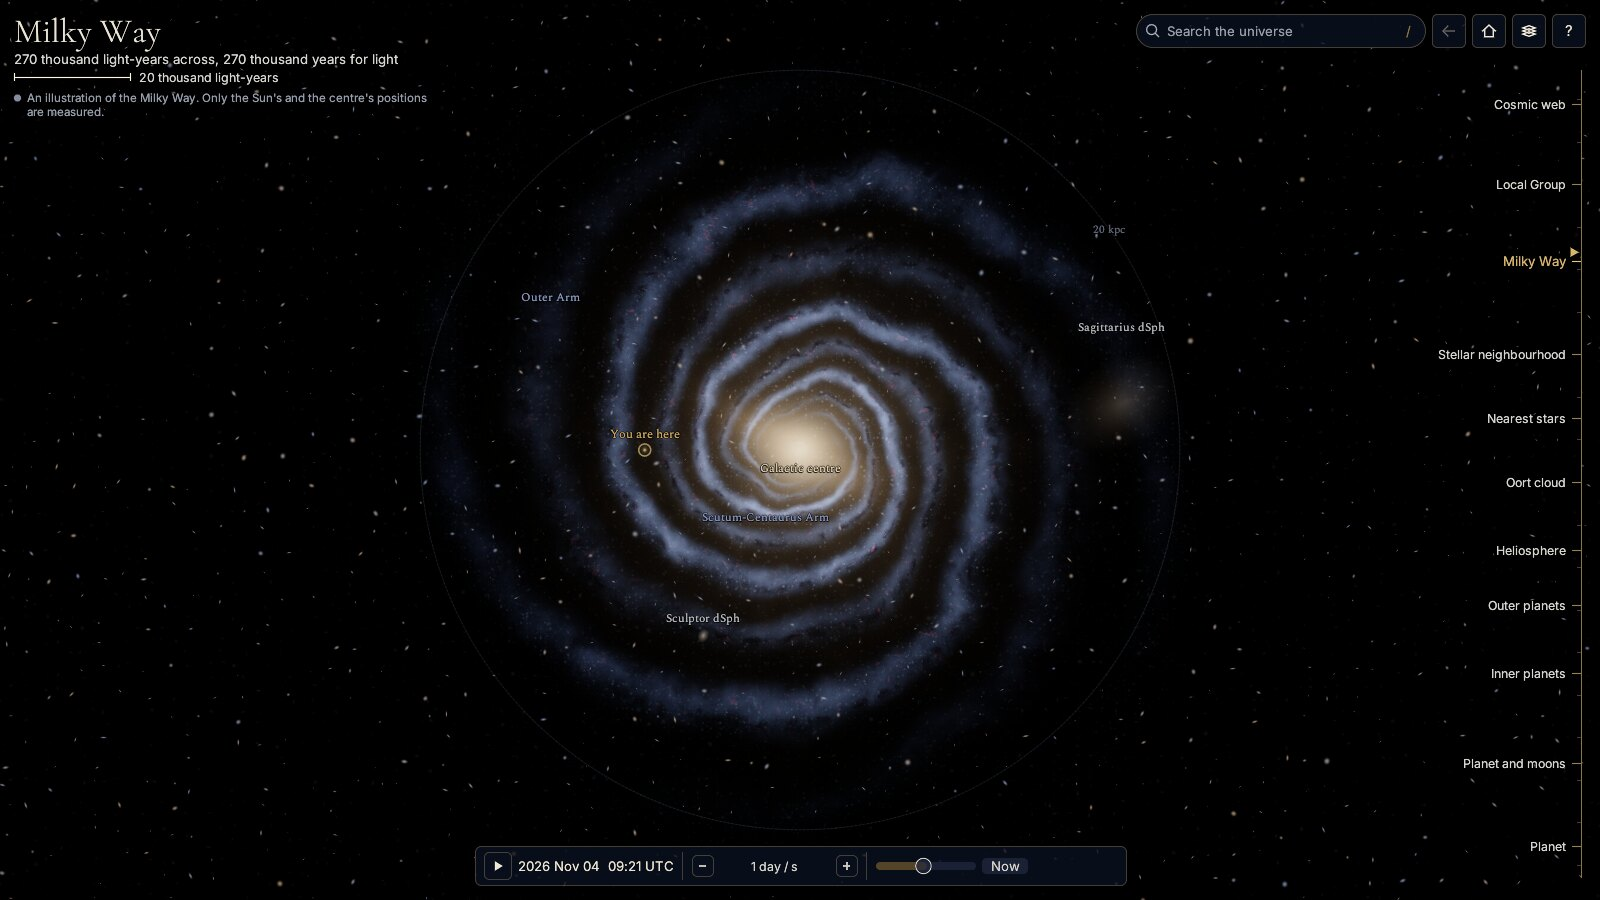
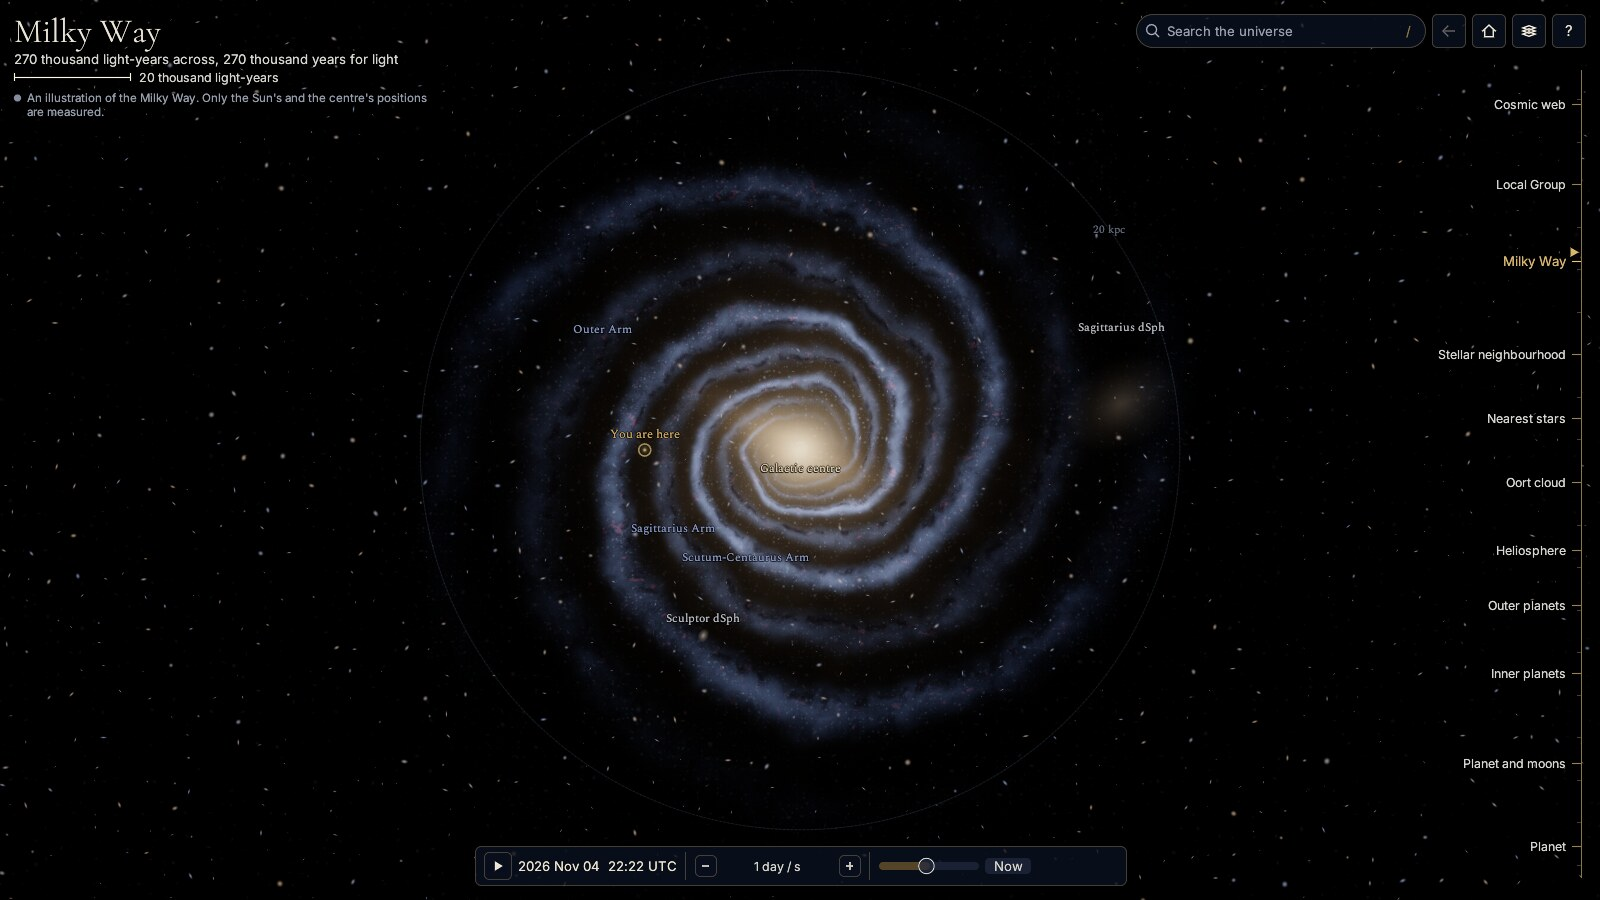
Regenerate the Milky Way and cosmic web screenshots
The arms now trail and the Hydra and Pegasus I clusters have moved. The other five README
screenshots were compared against fresh renders and don't show anything these changes touch.
Also corrects a shot's description, which still said the Gaia sample was 300 light-years across.

diff --git a/src/app.rs b/src/app.rs
@@ -2237,7 +2237,7 @@ pub const SHOTS: &[Shot] = &[
     },
     Shot {
         name: "neighbourhood",
-        desc: "The edge of the Gaia sample, about 300 light-years across",
+        desc: "The edge of the dense Gaia sample, about 35 pc out",
         setup: |a| view(a, DVec3::ZERO, 3.0e18, None),
     },
     Shot {
